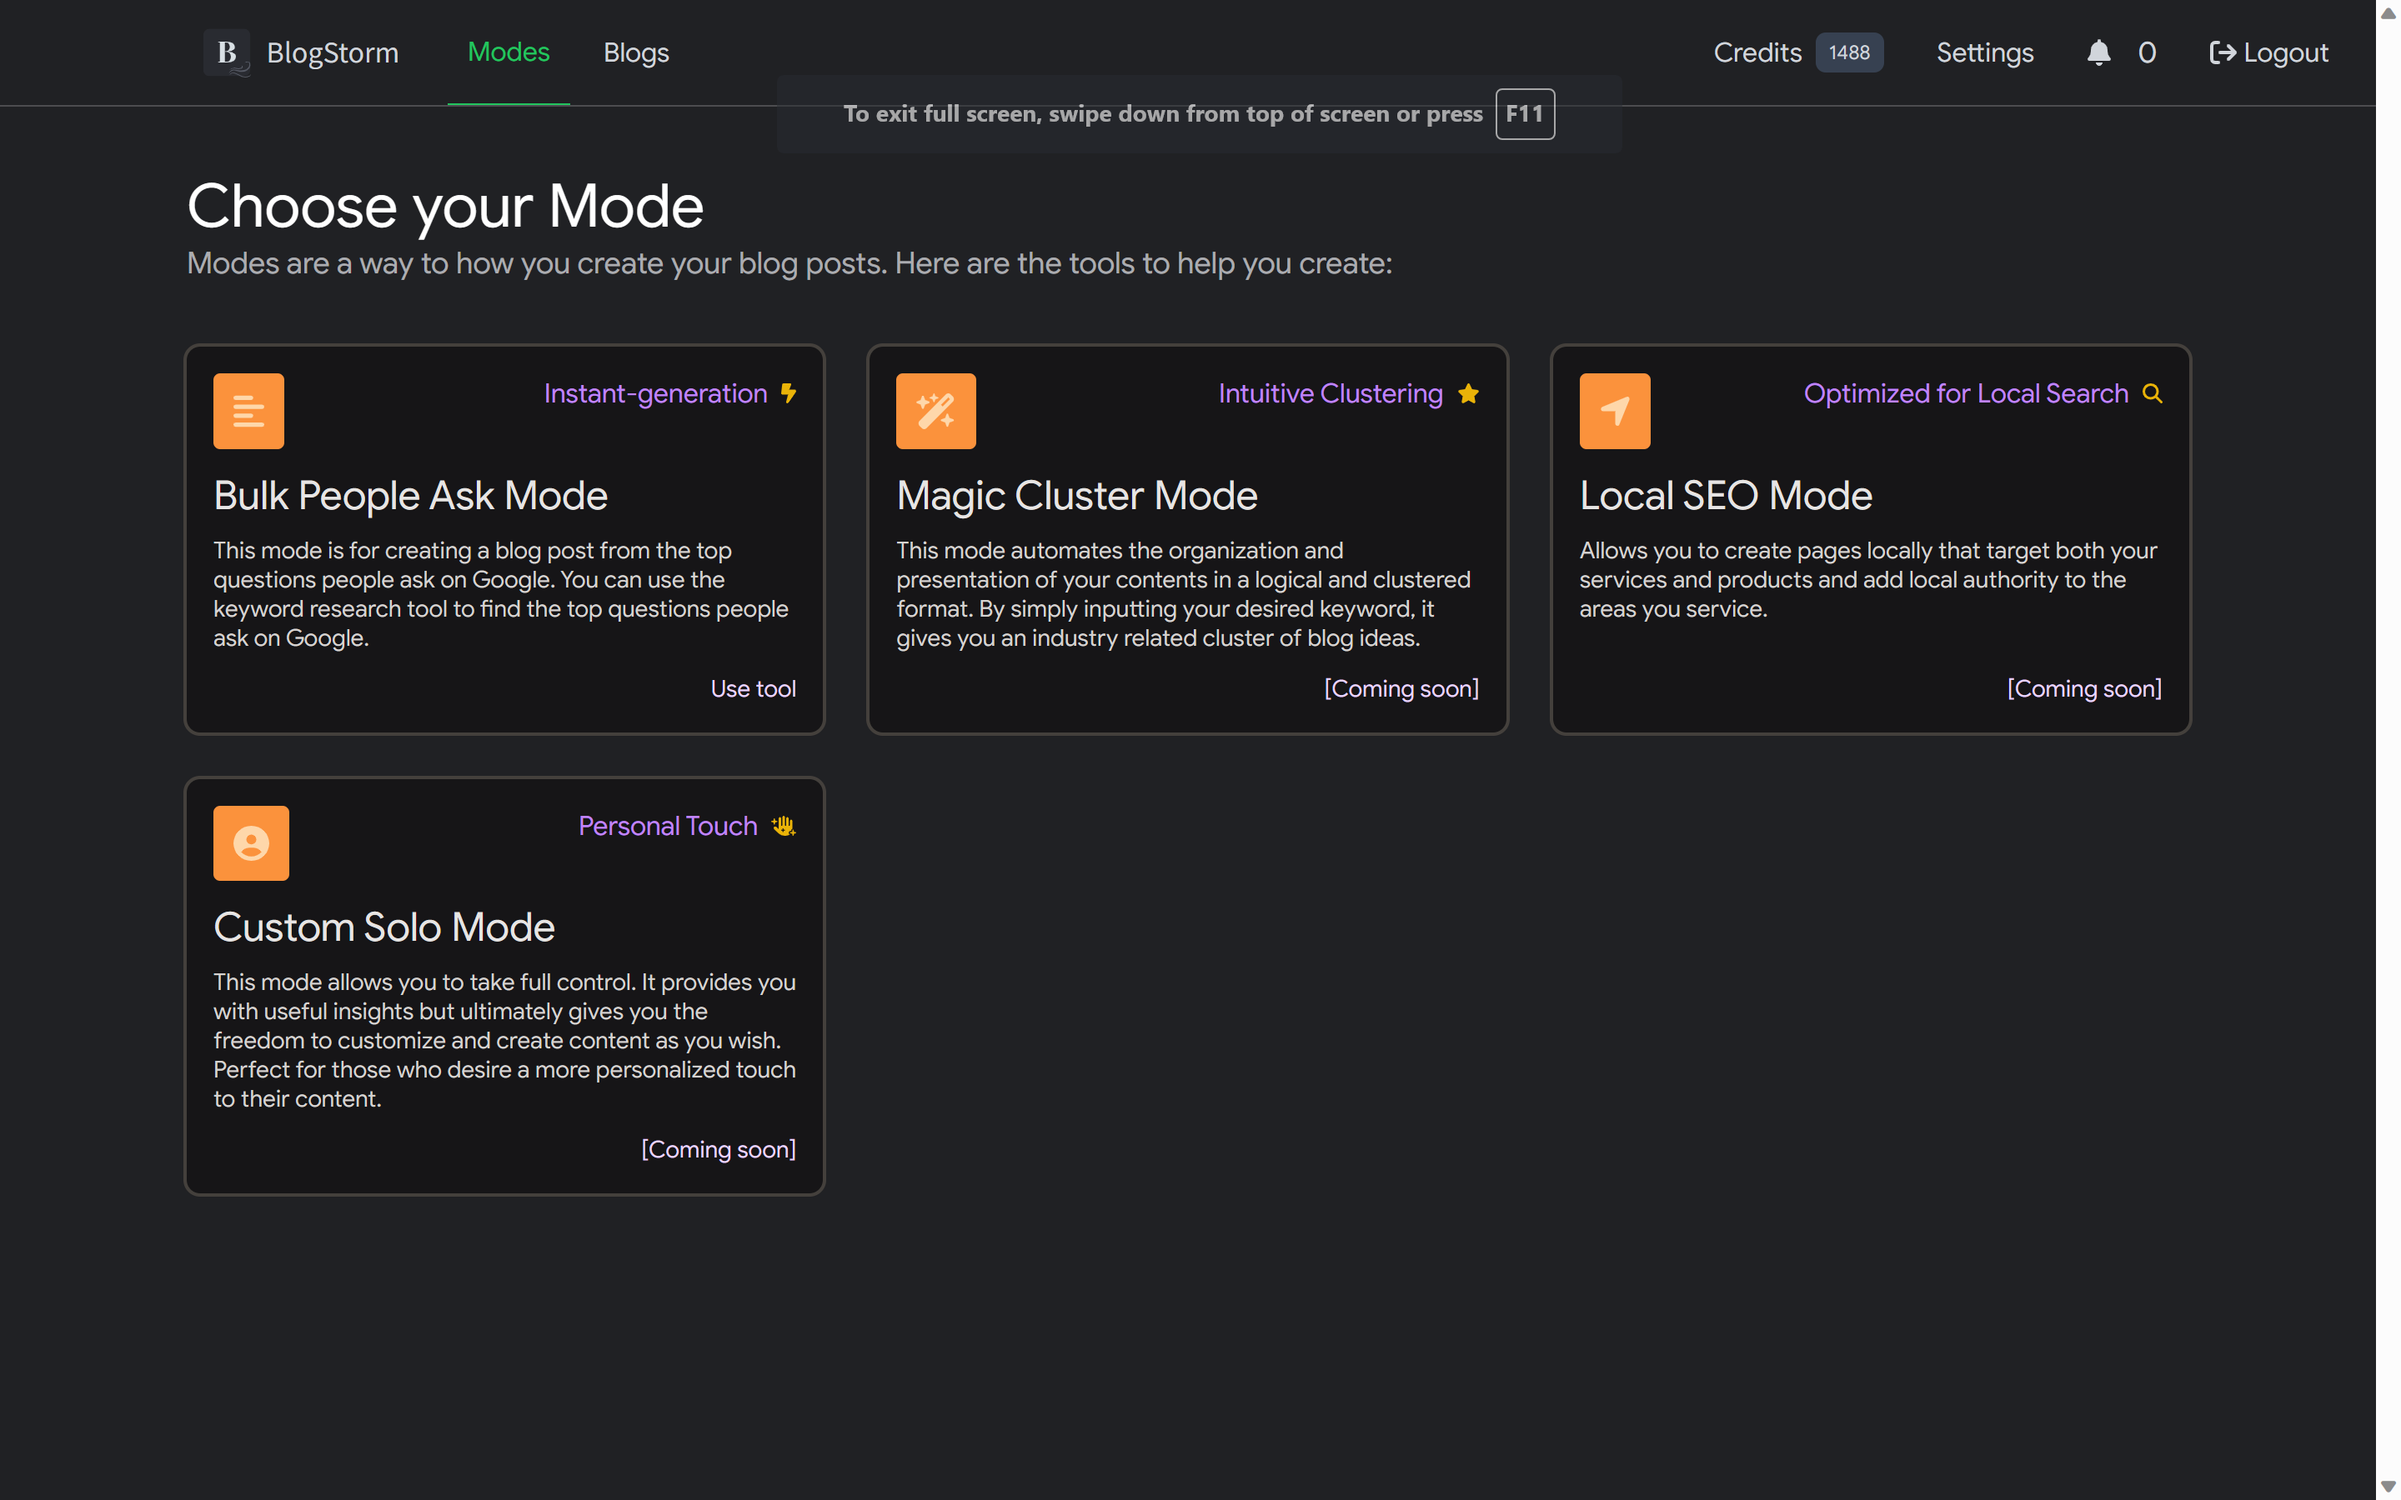
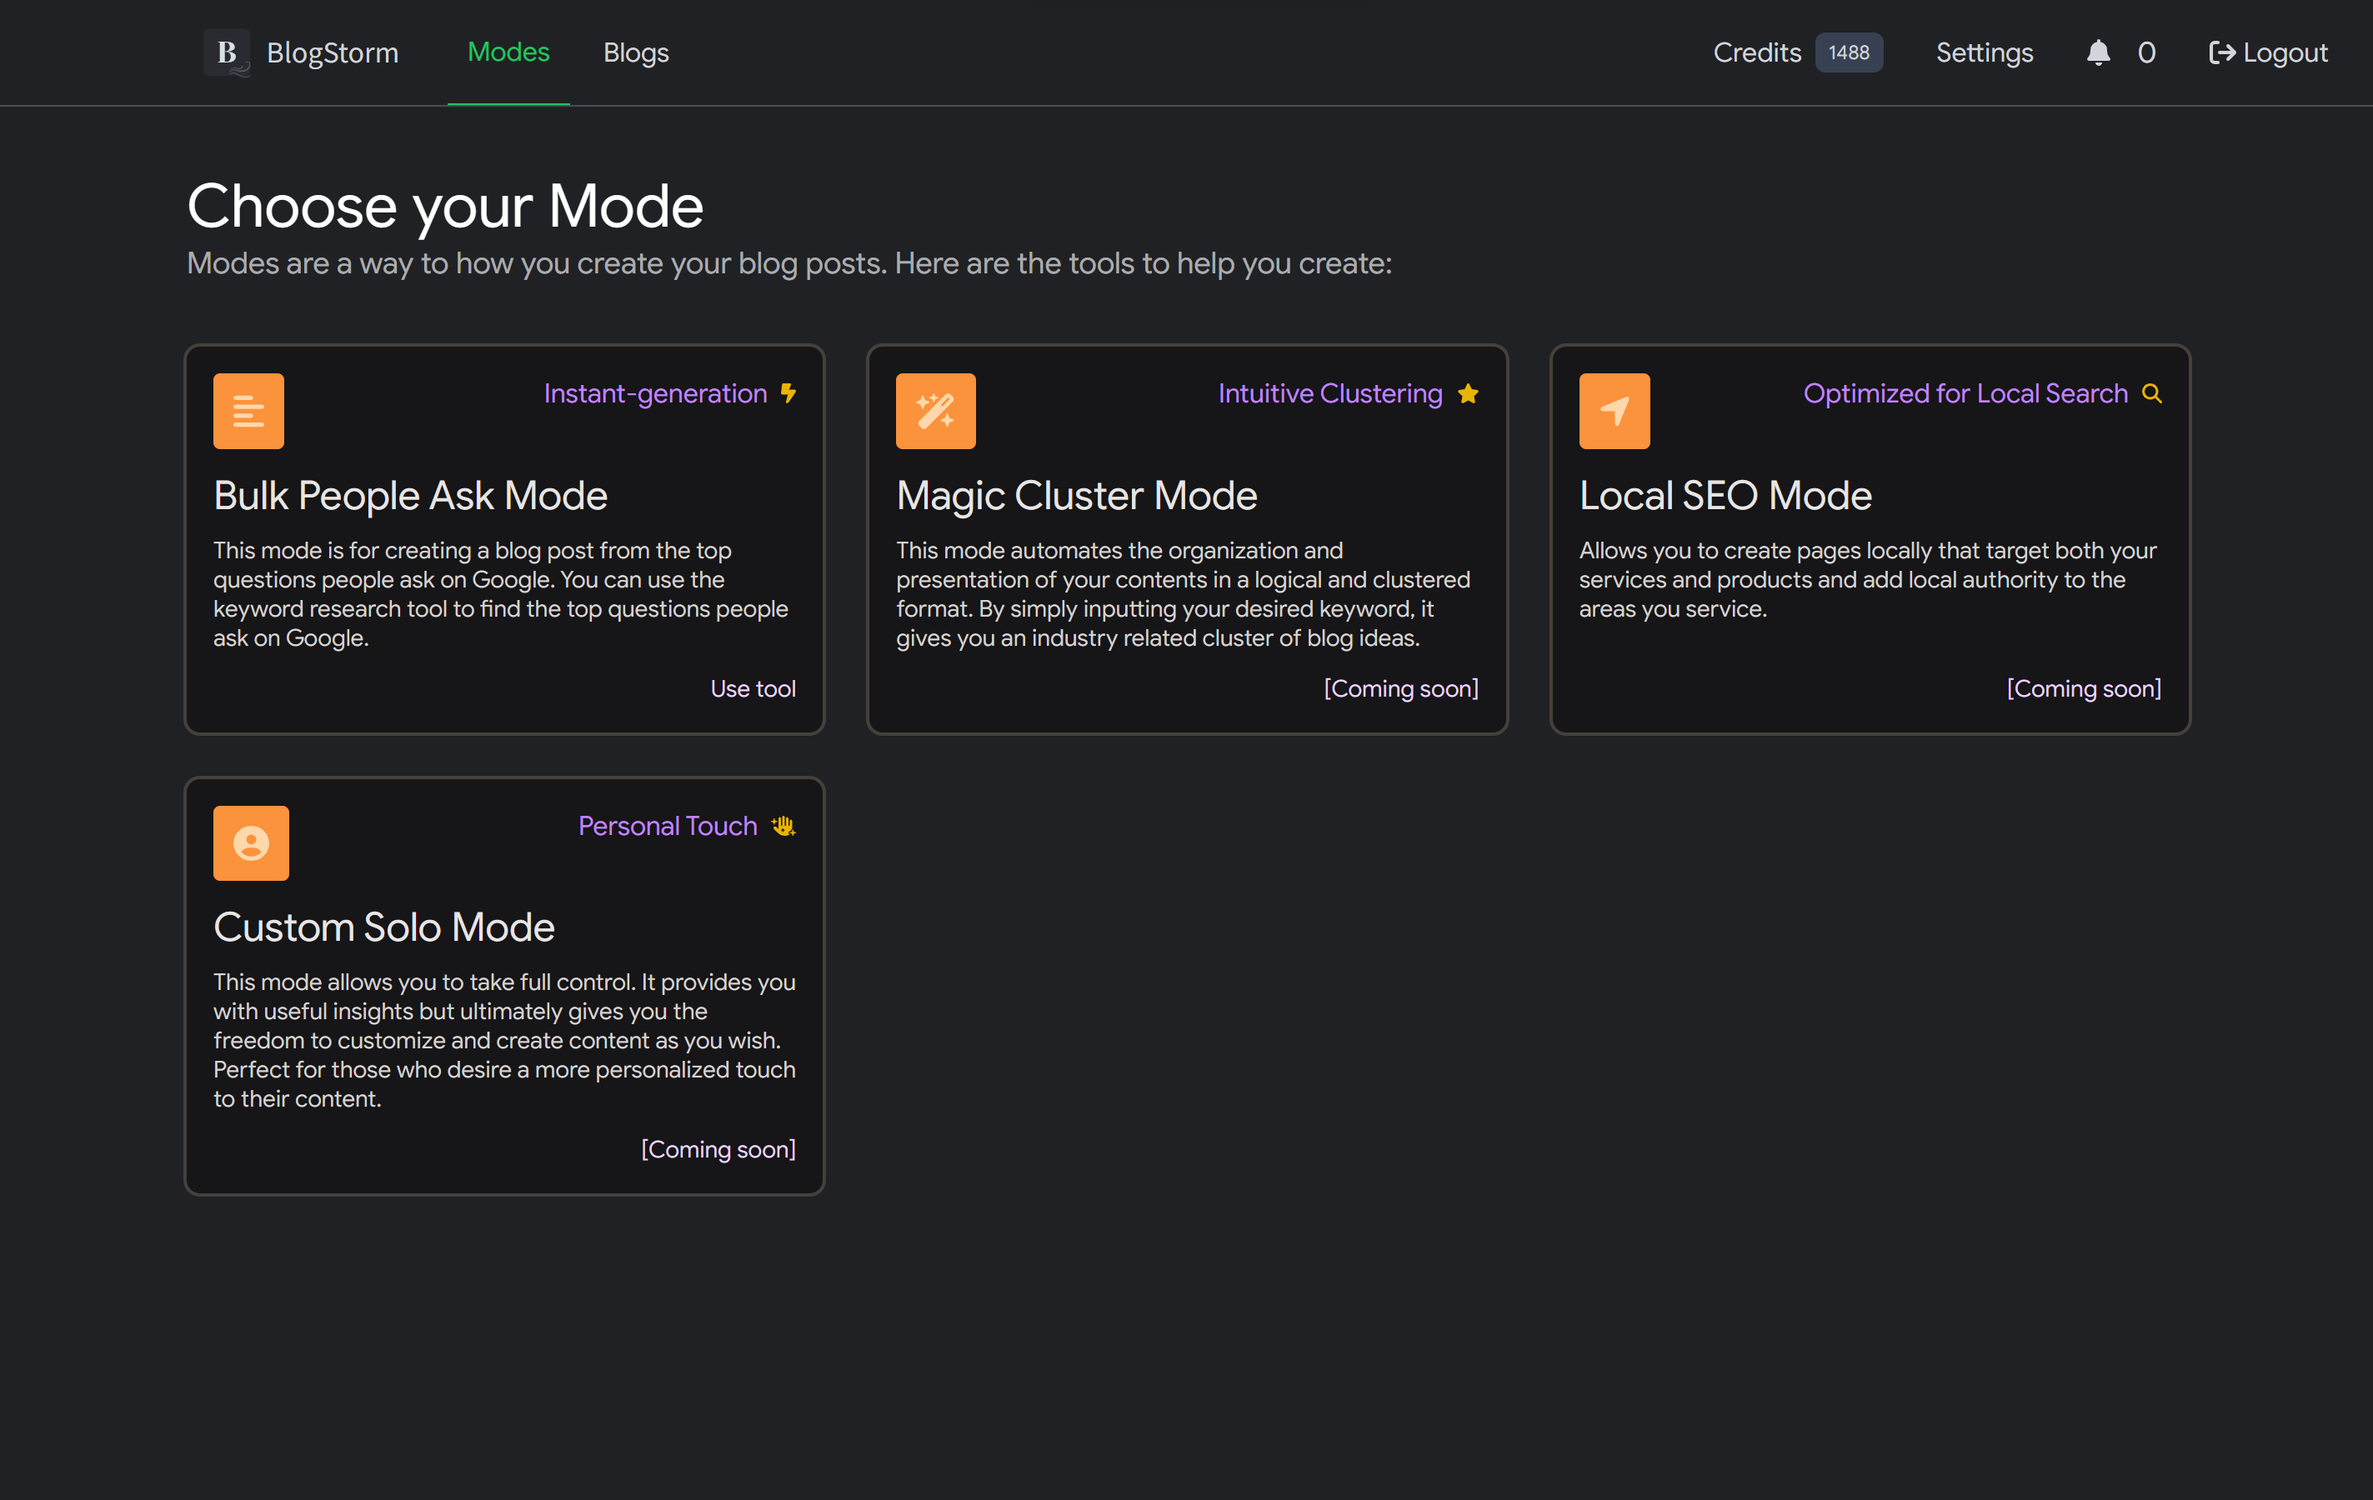
Adding projects

diff --git a/src/routes/projects/+page.svelte b/src/routes/projects/+page.svelte
@@ -1,22 +1,122 @@
 <script lang="ts">
-
+    import {fly, fade} from "svelte/transition";
 </script>
 
-<div class="projects-tab">
-    <h1 class="text-2xl font-bold">Projects</h1>
-    <p class="text-gray-500 dark:text-gray-400">Here are some of my projects</p>
+<div class="intro">
+    <p>
+        I have worked on many projects, some of them are my own and some of them are for clients. I have worked on
+        different technologies and frameworks. I have worked on different types of projects, from small to large scale
+        projects.
+    </p>
+
+    <div class="tags mt-7">
+        <a class="skill-tag typescript" href="https://www.npmjs.com/package/seord" target="_blank"
+           in:fade={{delay: 780}}>
+            <span class="tag-text">SEOrd</span>
+            <iconify-icon icon="mdi:language-typescript" class="tag-icon"></iconify-icon>
+        </a>
+        <a class="skill-tag python" href="https://pypi.org/project/fiverr-api/" target="_blank" in:fade={{delay: 780}}>
+            <span class="tag-text">Fiverr API</span>
+            <iconify-icon icon="mdi:language-python" class="tag-icon"></iconify-icon>
+        </a>
+        <a class="skill-tag react" href="https://speedclicking.com" target="_blank" in:fade={{delay: 780}}>
+            <span class="tag-text">Speed Clicking</span>
+            <iconify-icon icon="simple-icons:react" class="tag-icon"></iconify-icon>
+            <iconify-icon icon="simple-icons:tailwindcss" class="tag-icon"></iconify-icon>
+            <iconify-icon icon="mdi:language-javascript" class="tag-icon"></iconify-icon>
+        </a>
+        <a class="skill-tag python" href="https://pypi.org/project/regxon/" target="_blank" in:fade={{delay: 780}}>
+            <span class="tag-text">RegXon</span>
+            <iconify-icon icon="mdi:language-python" class="tag-icon"></iconify-icon>
+        </a>
+        <a class="skill-tag django" href="https://github.com/Bishwas-py/shazam" target="_blank" in:fade={{delay: 780}}>
+            <span class="tag-text">Shazam</span>
+            <iconify-icon icon="simple-icons:svelte" class="tag-icon"></iconify-icon>
+            <iconify-icon icon="mdi:language-python" class="tag-icon"></iconify-icon>
+            <iconify-icon icon="simple-icons:django" class="tag-icon"></iconify-icon>
+        </a>
+        <a class="skill-tag javascript" href="https://github.com/Bishwas-py/bishwas.net" target="_blank"
+           in:fade={{delay: 780}}>
+            <span class="tag-text">My Portfolio</span>
+            <iconify-icon icon="simple-icons:svelte" class="tag-icon"></iconify-icon>
+            <iconify-icon icon="simple-icons:typescript" class="tag-icon"></iconify-icon>
+            <iconify-icon icon="simple-icons:tailwindcss" class="tag-icon"></iconify-icon>
+        </a>
+    </div>
+
 </div>
 
+
+<div class="image-tab">
+    <a class="image" href="https://webmatrices.com" target="_blank" rel="noopener noreferrer"
+       in:fly={{duration: 300, y: '53'}}>
+        <img src="/projects/webmatrices.png" alt="blogstorm">
+    </a>
+    <a class="image" href="https://www.blogstorm.ai" target="_blank" rel="noopener noreferrer"
+       in:fly={{duration: 700, y: '53'}}>
+        <img src="/projects/blogstorm.png" alt="blogstorm">
+    </a>
+    <a class="image" href="https://www.webmatrices.com/long-tail-keywords" target="_blank" rel="noopener noreferrer"
+       in:fly={{duration: 2000, y: '53'}}>
+        <img src="/projects/webmatrices-long-form.png" alt="webmatrices long-tail keywords">
+    </a>
+    <a class="image" href="https://www.webmatrices.com/long-tail-keywords" target="_blank" rel="noopener noreferrer"
+       in:fly={{duration: 1200, y: '53'}}>
+        <img src="/projects/webmatrices-long-form-used.png" alt="webmatrices long-tail keywords">
+    </a>
+    <a class="image" href="https://www.xoomato.com" target="_blank" rel="noopener noreferrer"
+       in:fly={{duration: 1500, y: '53'}}>
+        <img src="/projects/xoomato.png" alt="xoomato">
+    </a>
+    <a class="image" href="https://https://github.com/Bishwas-py/deviser-club" target="_blank" rel="noopener noreferrer"
+       in:fly={{duration: 1700, y: '53'}}>
+        <img src="/projects/deviser-club.png" alt="deviser club">
+    </a>
+    <a class="image h-full" href="https://www.liveinabroad.com" target="_blank" rel="noopener noreferrer"
+       in:fly={{duration: 2200, y: '53'}}>
+        <img src="/projects/liveinabroad.png" alt="liveinabroad" class="h-full">
+    </a>
+    <a class="image" href="https://www.xoomato.com" target="_blank" rel="noopener noreferrer"
+       in:fly={{duration: 2700, y: '53'}}>
+        <img src="/projects/xoomato-front.png" alt="xoomato">
+    </a>
+    <a class="image" href="https://www.blogstorm.ai" target="_blank" rel="noopener noreferrer"
+       in:fly={{duration: 3100, y: '53'}}>
+        <img src="/projects/blogstorm-interface.png" alt="blogstorm interface">
+    </a>
+</div>
+
+<p class="outro">
+    I have worked on many other projects, but I am not indexing them here because they are not public or I don't have
+    the permission to share them.
+</p>
+
+
 <style lang="postcss">
-    .projects-tab {
-        @apply mt-2 mb-2;
-        @apply bg-white dark:bg-gray-800;
+    .image-tab {
+        @apply max-w-3xl grid grid-cols-1 md:grid-cols-2 lg:grid-cols-3;
+        @apply gap-10;
+        @apply mt-16;
+    }
+
+    .image {
+    }
+
+    img {
+        @apply w-full;
         @apply rounded-lg;
-        @apply shadow-md;
-        @apply p-4;
-        @apply border border-gray-200 dark:border-gray-700;
-        @apply dark:text-gray-200;
-        @apply dark:hover:text-gray-100;
-        @apply w-full max-w-3xl;
+        @apply shadow;
+        @apply rounded-lg shadow-md;
+        @apply outline outline-accent dark:outline-stone-950;
+        @apply shadow hover:scale-110 duration-200 delay-150;
+        @apply cursor-pointer;
+    }
+
+    .intro {
+        @apply max-w-3xl;
+    }
+
+    p.outro {
+        @apply max-w-3xl mt-16;
     }
 </style>

diff --git a/src/item/main/Hero.svelte b/src/item/main/Hero.svelte
@@ -1,13 +1,12 @@
 <script lang="ts">
     import {fade, scale} from "svelte/transition";
     import Skills from "$item/main/Skills.svelte";
-    export let imageUrl = "https://avatars.githubusercontent.com/u/42182303?v=4";
 </script>
 
 <header class="max-w-3xl">
     <div class="hero-content">
         <div class="hero-image-container" in:scale={{start: 3}}>
-            <img src={imageUrl} alt="Bishwas Bhandari" class="hero-image"/>
+            <img src="/me-bishwas.png" alt="Bishwas Bhandari" class="hero-image"/>
         </div>
         <div class="hero-text">
             <span class="text-7xl font-noto-sans px-0 mb-1" in:fade={{delay: 300}}>Hi, Man!</span>
@@ -17,7 +16,6 @@
                 Next JS. I love to develop things, I'd rather say I am addicted to development and coding.
             </p>
             <Skills/>
-
         </div>
     </div>
 </header>
@@ -34,14 +32,14 @@
     }
 
     .hero-image-container {
-        @apply overflow-hidden w-32 mb-4 shadow-md dark:outline;
+        @apply overflow-hidden w-32 h-32 flex-shrink-0 mb-4 shadow-md dark:outline;
         animation: wobble 2s infinite;
         border-radius: 28% 25% 28% 25%;
         @apply md:sticky top-7;
     }
 
     .hero-image {
-        @apply w-full h-full object-cover hover:scale-110 duration-200 cursor-zoom-in;
+        @apply w-full h-full object-cover scale-110 hover:scale-150 object-top duration-200 cursor-zoom-in;
     }
 
     .hero-text {

diff --git a/src/item/Navbar.svelte b/src/item/Navbar.svelte
@@ -1,7 +1,11 @@
+<script lang="ts">
+    import {page} from '$app/stores';
+</script>
+
 <nav>
     <ul>
-        <li><a href="/">Home</a></li>
-        <li><a href="/projects">Projects</a></li>
+        <li class:active={$page.url.pathname === "/"}><a href="/">Home</a></li>
+        <li class:active={$page.url.pathname === "/projects"}><a href="/projects">Projects</a></li>
     </ul>
 </nav>
 
@@ -22,6 +26,10 @@
         @apply dark:hover:drop-shadow-white-lg hover:drop-shadow-dark-lg;
         @apply dark:hover:text-blue-200;
         @apply duration-300;
+    }
+
+    ul li.active {
+        @apply font-bold dark:text-blue-100;
     }
 
     ul li a {

diff --git a/src/item/main/Content.svelte b/src/item/main/Content.svelte
@@ -42,7 +42,8 @@
                target="_blank">
                 <iconify-icon icon="mdi:facebook"></iconify-icon>
             </a>
-            <a class="ml-auto text-lg font-noto-sans flex items-center gap-2" in:fade={{delay: 870}} href="mailto:yo@bishwas.net">
+            <a class="ml-auto text-lg font-noto-sans flex items-center gap-2" in:fade={{delay: 870}}
+               href="mailto:yo@bishwas.net">
                 <iconify-icon icon="mdi:email"></iconify-icon>
                 <span>mail me</span>
             </a>

diff --git a/src/routes/+page.svelte b/src/routes/+page.svelte
@@ -1,6 +1,5 @@
 <script>
     import Hero from "$item/main/Hero.svelte";
-    import {browser} from "$app/environment";
     import Content from "$item/main/Content.svelte";
 </script>
 
@@ -9,8 +8,6 @@
 </svelte:head>
 
 
-{#key browser}
-    <Hero/>
-    <hr class="w-full mt-11 border-blue-600/5"/>
-    <Content/>
-{/key}
+<Hero/>
+<hr class="w-full mt-11 border-blue-600/5"/>
+<Content/>

diff --git a/src/routes/+layout.svelte b/src/routes/+layout.svelte
@@ -24,7 +24,7 @@
     </main>
     <AppearanceSwitch/>
 </div>
-<img src="/img.png" alt="Bishwas Bhandari PNG"
+<img src="/bg.png" alt="Bishwas Bhandari PNG"
      class="fixed top-0 right-0 w-screen h-screen -z-10 bg-black opacity-20 invert dark:invert-0">
 
 <style lang="postcss">
